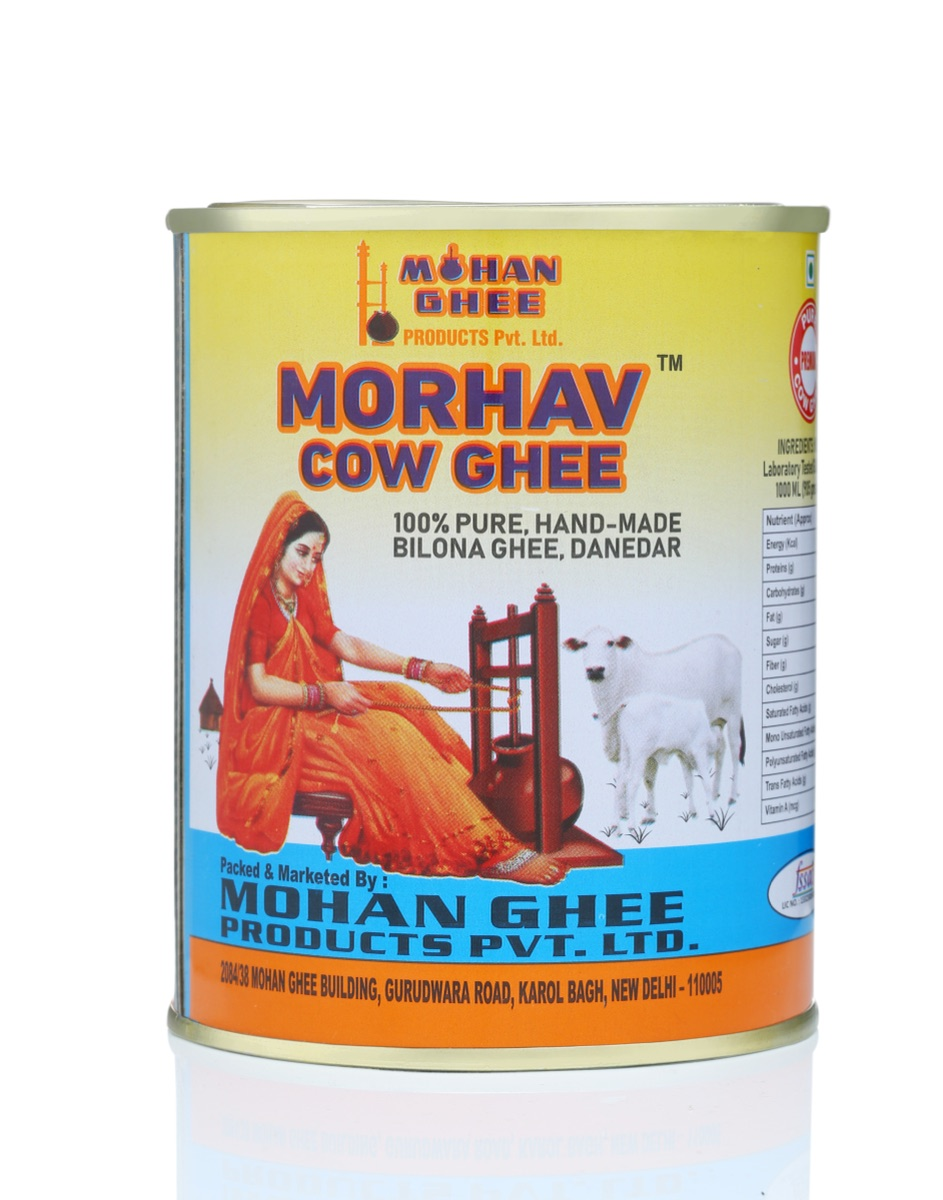
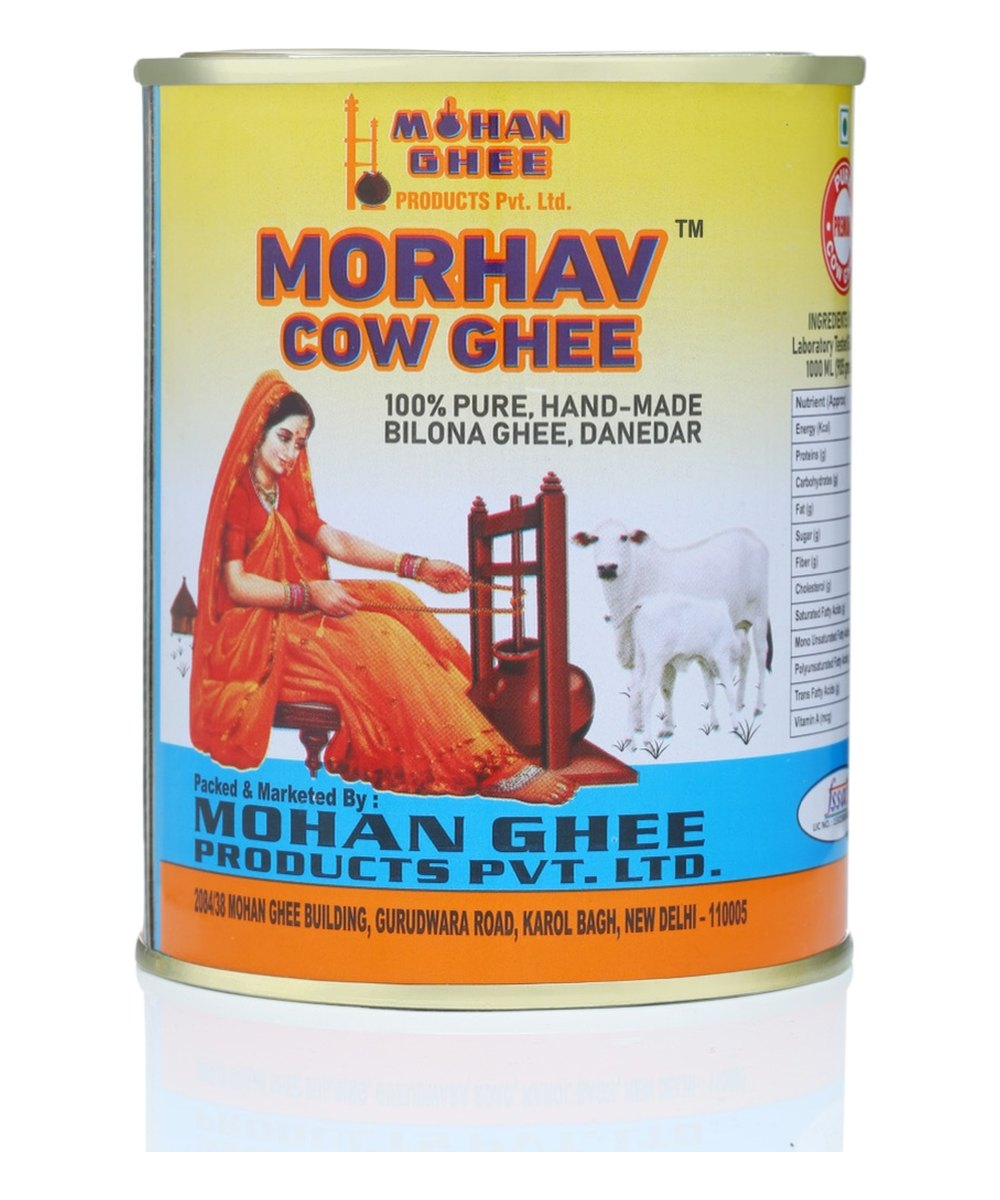
V1 product cards: normalize all 8 product photos to uniform 4:5 frames
Source images had inconsistent framing (Mohan tins were 1200x1200 with
white margins around the tin, Morhav photos were tighter portrait
crops), so cards looked uneven -- some products appeared tiny inside
the card, the loose ones dominated.

Normalize every p*.jpg to 1000x1200 (4:5) with the product trimmed to
its content bbox and re-centered at 92% of frame height on white. All
products now display at the same visible size in the grid.

Card .img switches to aspect-ratio 4/5 with object-fit: cover so the
new uniform sources fill the frame edge-to-edge with zero whitespace.

diff --git a/index.html b/index.html
@@ -674,16 +674,16 @@
   }
   .product:hover { transform: translate(-3px, -3px); box-shadow: 8px 8px 0 var(--red); }
   .product .img {
-    aspect-ratio: 1/1;
-    background: var(--cream);
+    aspect-ratio: 4/5;
+    background: #fff;
     position: relative;
     border-bottom: 3px solid var(--turmeric);
   }
   .product .img image-slot { width: 100%; height: 100%; }
   .product .img img.img-fill {
-    object-fit: contain;
-    padding: 8px;
-    background: var(--cream);
+    object-fit: cover;
+    padding: 0;
+    background: #fff;
   }
   .tea-products .product .img img.img-fill {
     object-fit: cover;
